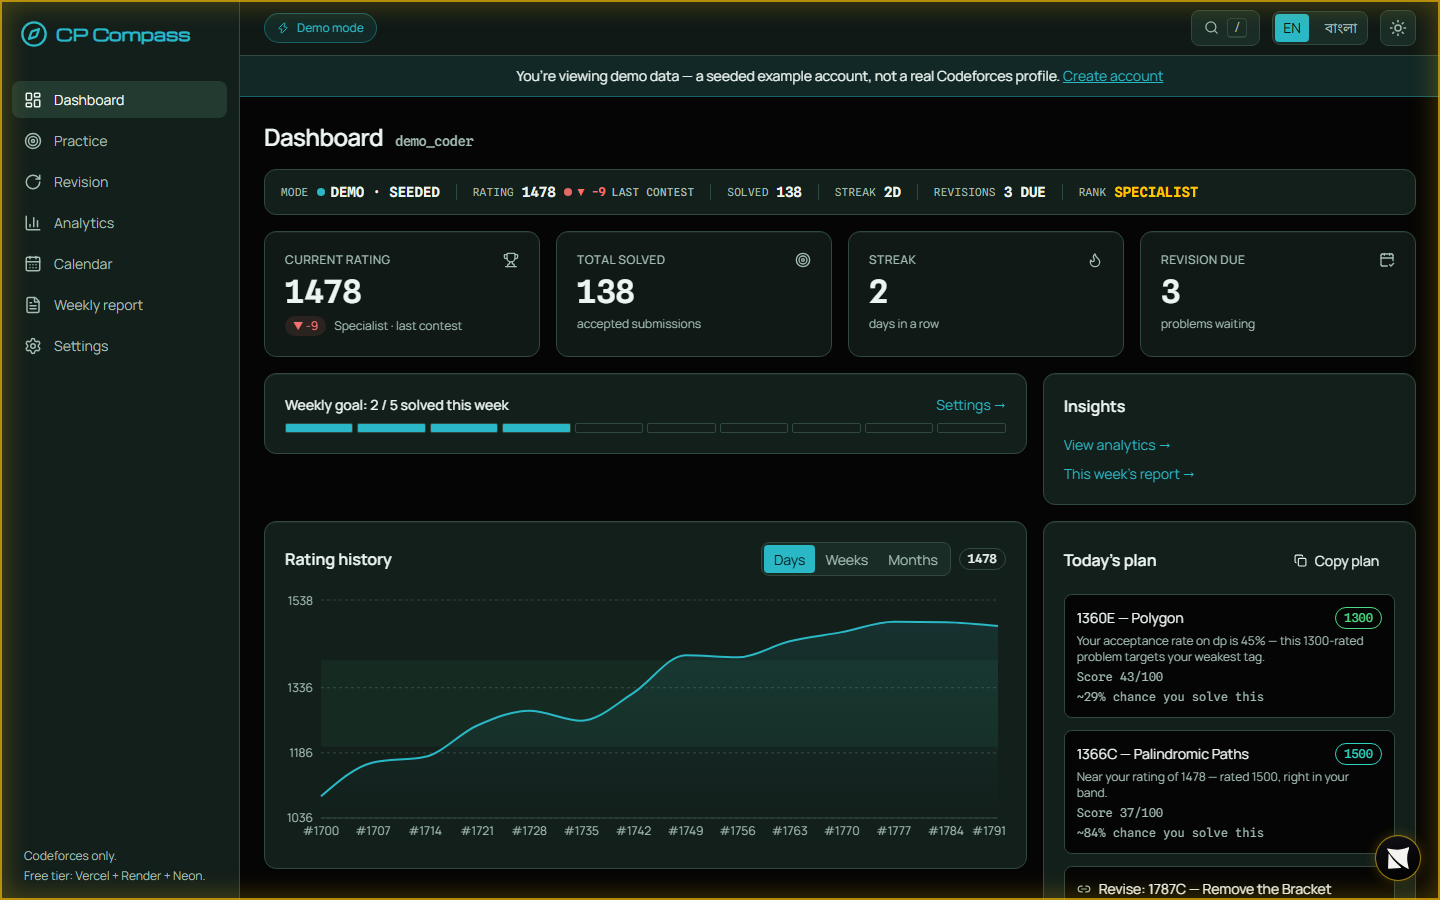
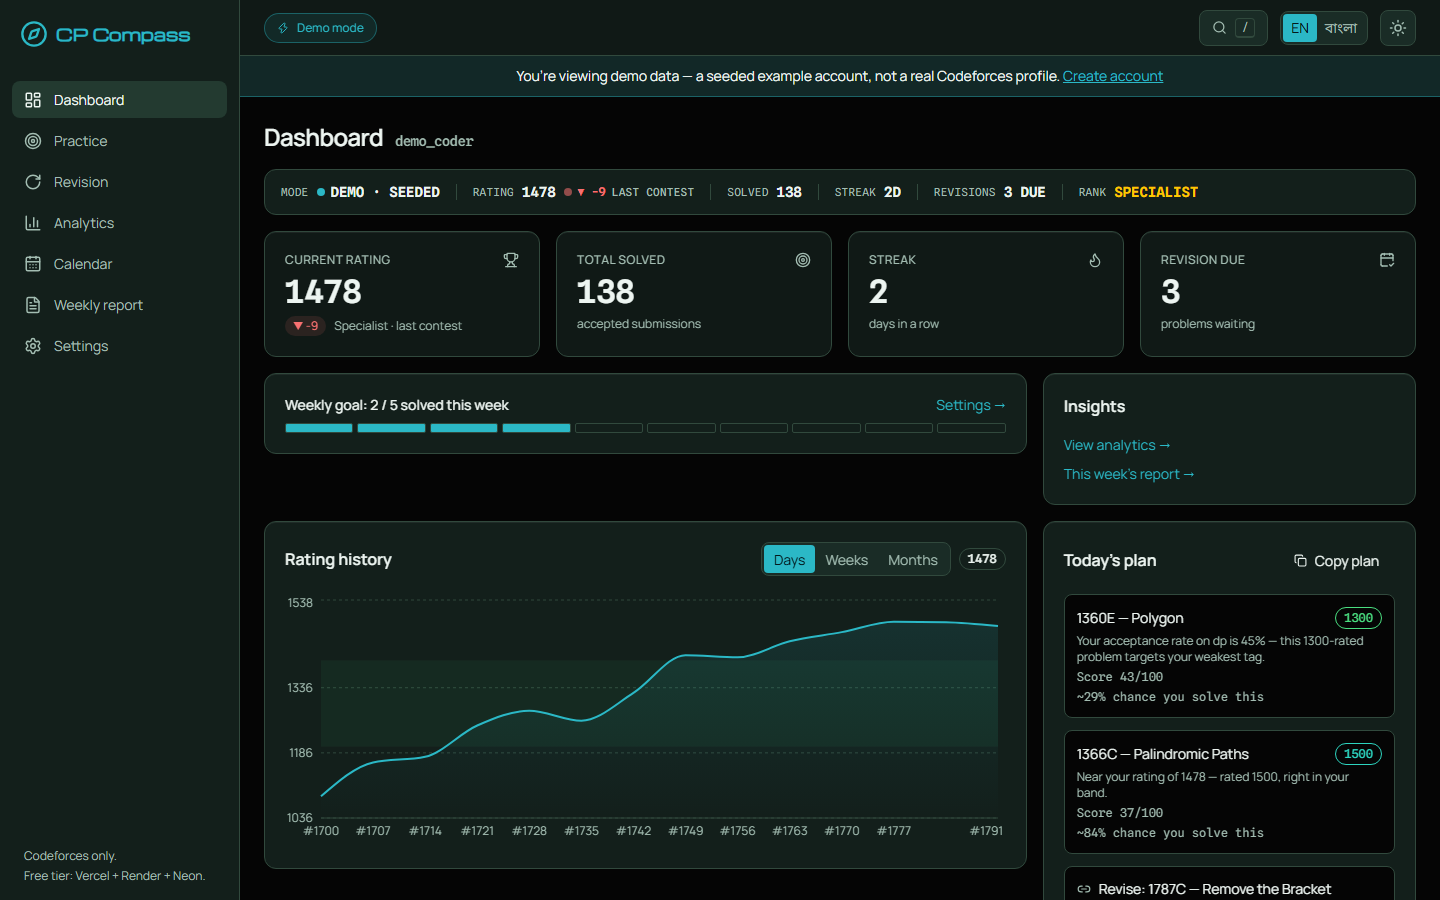
landing-fixes: visible Features heading + clean dashboard capture
Features section: sr-only h2 -> visible motion.h2 (text-2xl, same as other section headings), reusing t.navFeatures (EN/BN); id=features kept so the navbar anchor still lands.

showcase-dashboard.png re-captured from the production build: the old file had Reticle gold viewport overlay baked into its edges, which showed as gold frames around the hero mockup and the showcase figure. The live bundle contains no Reticle code, and the thin gold rule under the hero was the bottom edge of that dev-only overlay - it never existed on the live site. Gold stays only on the practice headline word + SPECIALIST rank per the F1-gold rule.

diff --git a/frontend/src/pages/Landing.tsx b/frontend/src/pages/Landing.tsx
@@ -400,8 +400,10 @@ export default function Landing({ theme, toggleTheme }: { theme: Theme; toggleTh
       {/* Features — banded, to break the 3-card-grid monotony */}
       <section id="features" className="border-y border-border bg-surface">
         <div className="mx-auto max-w-[1280px] px-4 py-16 md:px-6">
-          <h2 className="sr-only">{t.navFeatures}</h2>
-          <motion.div {...fadeUp} className="grid gap-4 md:grid-cols-3">
+          <motion.h2 {...fadeUp} className="text-2xl font-semibold tracking-tight">
+            {t.navFeatures}
+          </motion.h2>
+          <motion.div {...fadeUp} className="mt-6 grid gap-4 md:grid-cols-3">
             {FEATURES.map((f, i) => (
               <GlassPanel key={f.title} className="p-5">
                 <f.icon size={20} className="text-primary" aria-hidden />

diff --git a/specs/landing-fixes/spec.md b/specs/landing-fixes/spec.md
@@ -1,0 +1,89 @@
+# Landing fixes — spec (light)
+
+Batch: landing-fixes. Repo `D:\Projects\cp-compass`, base `86f6a4b`.
+Khalid approved both fixes after seeing the live landing screenshots
+(teal palette already decided 2026-11-28 01:01).
+
+## Fix 1 — gold frames on the landing page: REMOVE
+
+### Corrected diagnosis (verified 2026-11-28 ~01:10, do not re-litigate)
+
+The gold is NOT a CSS design element. There is no gold border anywhere
+in the landing CSS (`--border` is `#31493d`; `--gold #ffc800` is used
+only by `.text-gradient-gold` on the "practice" headline word).
+
+What Khalid saw breaks down into two different causes:
+
+1. **Baked into `frontend/public/showcase-dashboard.png`.** The PNG is
+   1440x900 and its outer 1-2px on all four sides are gold
+   (top/bottom 1440/1440 px, left/right 900/900 px). It was captured
+   from the Reticle-instrumented dev server, so Reticle's gold viewport
+   overlay got baked into the image. The other three showcase PNGs
+   (analytics, practice, revision) are clean. This image is shown in
+   TWO places, so one bad file causes both gold frames Khalid saw:
+   - hero mockup (`Landing.tsx` ~354, `object-cover object-top`,
+     top 340px shown) — gold top + side edges visible;
+   - showcase figure, Dashboard tab (`Landing.tsx` ~440, `w-full`)
+     — full gold rectangle visible.
+2. **Reticle dev overlay (dev screenshots only).** A fresh CDP shot of
+   the dev server (`:5173`) reproduces a gold 1440x900 rectangle around
+   the first viewport (top row 720/720 px gold); a fresh CDP shot of
+   the production build (`:4173` preview) has ZERO gold on the
+   viewport edges, and the live Vercel bundle
+   (`index-B5B4AIRK.js`) contains zero occurrences of "reticle".
+   The "thin gold rule under the hero" is the bottom edge of that
+   dev-only frame (y=898-899). It does NOT exist on the live site.
+
+### Fix
+
+- Re-capture `showcase-dashboard.png` cleanly from the production
+  build (`:4173` preview, `/demo`, 1440x900 viewport shot, no Reticle)
+  and replace `frontend/public/showcase-dashboard.png`.
+- No CSS change for the frames: there is nothing gold to remove in
+  code. Do NOT touch `.text-gradient-gold` (headline "practice" word)
+  or the SPECIALIST rank accent — gold stays there per the F1-gold rule.
+- If the fresh capture's demo numbers drifted from the hardcoded hero
+  stats (1478 / 138 / 2-day streak / 3 due in `Landing.tsx` ~366-376),
+  update the hardcoded values to match the fresh image so text and
+  image agree.
+
+## Fix 2 — Features section has no visible heading: ADD ONE
+
+Verified in code: `Landing.tsx:401` `<section id="features">`,
+`:403` `<h2 className="sr-only">{t.navFeatures}</h2>` — screen-reader
+only. The three cards sit under the hero with no visible label, so the
+navbar "Features" link lands on an unidentifiable section.
+
+Fix: replace the sr-only h2 with a visible heading in the same pattern
+as the other sections (`<motion.h2 {...fadeUp} className="text-2xl
+font-semibold tracking-tight">`), reusing `t.navFeatures`
+("Features" / "ফিচার" — already bilingual, no new strings).
+Keep `id="features"` so the navbar anchor still lands on it.
+
+## Verification (before commit)
+
+- Frontend build passes (tsc + vite).
+- pytest: 2 pre-existing UTC-vs-local date flakes
+  (`test_10_heatmap_full_history`, `test_11_cumulative_solved`) fail
+  only 00:00-06:00 Dhaka — do not chase them.
+- Screenshots before/after, desktop + true-390 mobile (CDP script
+  `shots-premium-apply/cdp-shot.mjs`; headless `--window-size` does NOT
+  give 390px). Copy to `~/workspace/shots-landing-fixes/` and VIEW them.
+- After shots must be taken from the preview build (`:4173`), NOT the
+  dev server, or Reticle's overlay will pollute them again.
+
+## Ship
+
+- One commit, only this batch's files (never `git add -A`). Reticle
+  changes stay uncommitted.
+- Push via askpass pattern (token from HKCU Environment, throwaway
+  `.bat`, deleted right after, token never printed).
+- Wait for the Render deploy, then live-verify: `/api/v1/health` 200,
+  `/docs` 404, landing renders with no gold frames + visible Features
+  heading, navbar Features link scrolls to it.
+- No DB-backed probe: no auth code changed.
+
+## Out of scope
+
+Google OAuth, AI features (Hint Ladder / post-mortem / mistake mining),
+Batch 3/4/5 — queued separately, do not start.
